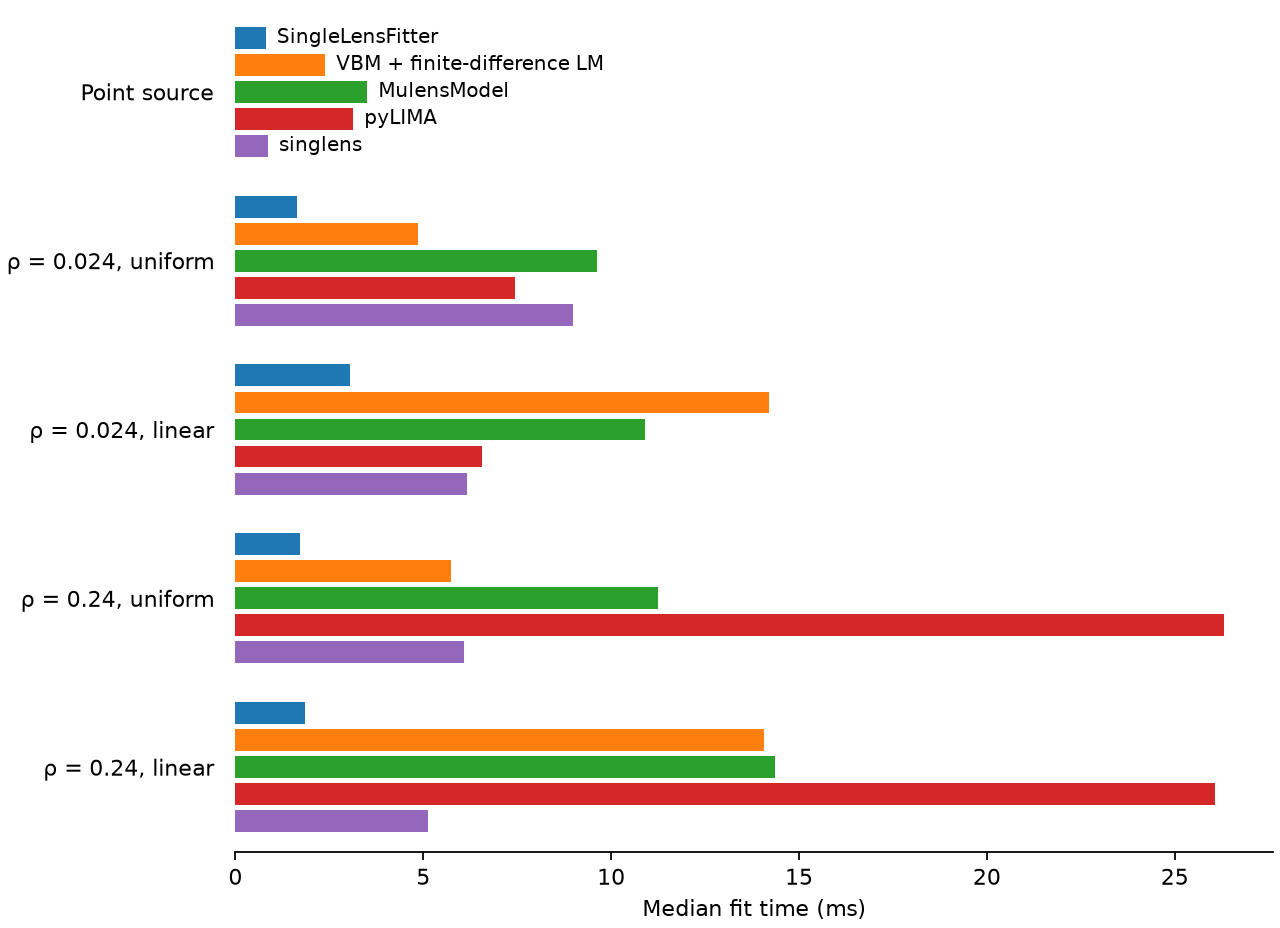
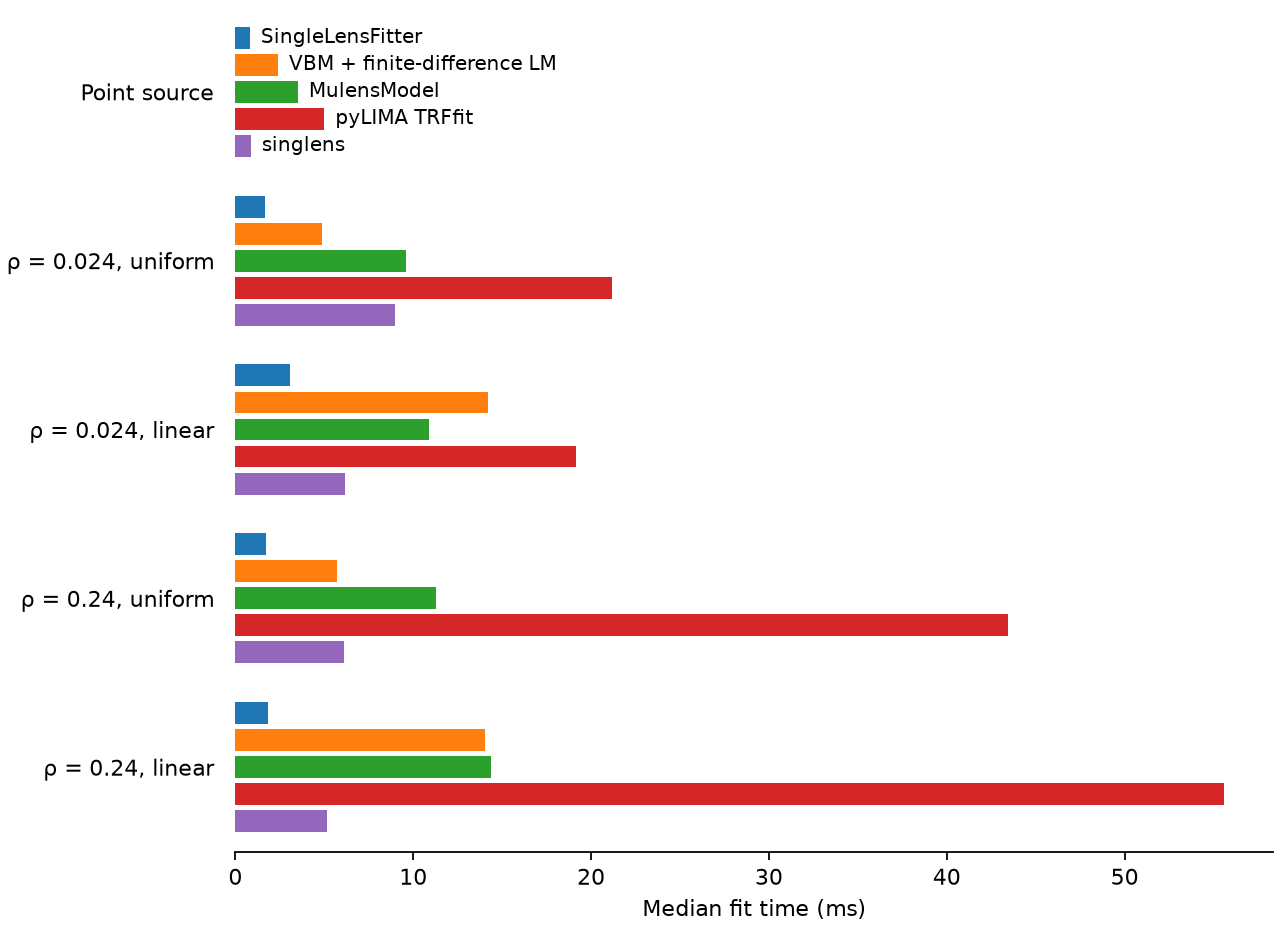
Benchmark pyLIMA with its native TRF fitter

diff --git a/benchmarks/methods.py b/benchmarks/methods.py
@@ -75,7 +75,7 @@ def photometry(radius, a):
     return time, flux, err, start
 
 
-def run(radius, a, lee_only=False, vbm_only=False, matched=False):
+def run(radius, a, lee_only=False, vbm_only=False, matched=False, workflows=False):
     finite = radius > 0
     time, flux, err, start = photometry(radius, a)
     seed = start.copy()
@@ -85,7 +85,7 @@ def run(radius, a, lee_only=False, vbm_only=False, matched=False):
     fitter = FSPLFitter(linear_limb_darkening=a) if finite else PSPLFitter()
 
     def slf():
-        options = {"numpy_result": True} if matched else {}
+        options = {"numpy_result": True} if matched or workflows else {}
         r = fitter.fit(time, flux, err, seed, **options)
         if not r.optimizer_success:
             raise RuntimeError(r.optimizer_status)
@@ -93,9 +93,9 @@ def run(radius, a, lee_only=False, vbm_only=False, matched=False):
 
     methods = {"SLF": slf}
     for label, defaults in [("VBM batch + FD", False), ("VBM default + FD", True)]:
-        if defaults and not finite:
+        if defaults and (not finite or workflows):
             continue
-        curve = vbm_curve(time, finite, a, defaults=defaults, tolerance=1e-3 if matched else 1e-4)
+        curve = vbm_curve(time, finite, a, defaults=defaults, tolerance=1e-3 if matched or workflows else 1e-4)
         methods[label] = lambda curve=curve: fd_fit(curve, flux, err, seed, geometry=True)
 
     if vbm_only:
@@ -139,7 +139,19 @@ def run(radius, a, lee_only=False, vbm_only=False, matched=False):
             raise RuntimeError(result.message)
         return float(result.fun), result.x*units
 
-    if not matched:
+    if workflows:
+        def tutorial_fit():
+            def objective(q):
+                set_params(q)
+                return ev.get_chi2()
+
+            result = minimize(objective, start, method="Nelder-Mead")
+            if not result.success:
+                raise RuntimeError(result.message)
+            return float(result.fun), result.x
+
+        methods["MulensModel Event + Nelder-Mead"] = tutorial_fit
+    elif not matched:
         methods["MulensModel Event + gradient"] = mm_fit
 
     def mm_curve(q):
@@ -160,7 +172,8 @@ def run(radius, a, lee_only=False, vbm_only=False, matched=False):
                score_reference(time, flux, err, q, a), *q, "ok"]
         return
 
-    methods["MulensModel + FD"] = lambda: fd_fit(mm_curve, flux, err, seed, geometry=True)
+    if not workflows:
+        methods["MulensModel + FD"] = lambda: fd_fit(mm_curve, flux, err, seed, geometry=True)
     telescope = telescopes.Telescope(name="survey", lightcurve=np.column_stack((time, flux, err)),
         lightcurve_names=["time","flux","err_flux"], lightcurve_units=["JD","W/m^2","W/m^2"])
     for name, arr in zip(("time","flux","err_flux"), (time, flux, err)):
@@ -170,6 +183,8 @@ def run(radius, a, lee_only=False, vbm_only=False, matched=False):
     data.telescopes.append(telescope)
     choices = [("pyLIMA PSPL", PSPLmodel)] if not finite else [
         ("pyLIMA FSPL", FSPLmodel), ("pyLIMA FSPLarge", FSPLargemodel)]
+    if workflows and finite:
+        choices = [choices[int(radius > .05)]]
     if matched:
         # Control for the derivative implementation with the same FD driver.
         methods["SLF model + FD"] = lambda: fd_fit(
@@ -228,6 +243,7 @@ if __name__ == "__main__":
     import argparse
     parser = argparse.ArgumentParser(description=__doc__)
     modes = parser.add_mutually_exclusive_group()
+    modes.add_argument("--workflows", action="store_true", help="package fitting workflows")
     modes.add_argument("--matched", action="store_true", help="common LM seed, scaling and stopping rules")
     modes.add_argument("--lee09", action="store_true", help="single large-source integration fits")
     modes.add_argument("--vbm-sweep", action="store_true", help="intermediate 1e-3 VBM tolerance")
@@ -238,5 +254,5 @@ if __name__ == "__main__":
     for radius, a in cases:
         if args.vbm_sweep and radius == 0:
             continue
-        writer.writerows(run(radius, a, lee, args.vbm_sweep, args.matched))
+        writer.writerows(run(radius, a, lee, args.vbm_sweep, args.matched, args.workflows))
         sys.stdout.flush()

diff --git a/benchmarks/singlens_fits.py b/benchmarks/singlens_fits.py
@@ -12,7 +12,7 @@ import singlens
 from methods import photometry, score_reference
 
 
-def run(rho, a):
+def run(rho, a, workflows=False):
     time, flux, error, seed = photometry(rho, a)
     model = singlens.Model(source=("linear" if a else "uniform") if rho else "point")
     times, values, errors = map(jnp.asarray, (time - seed[0], flux, error))
@@ -37,10 +37,16 @@ def run(rho, a):
     fun(start).block_until_ready()
     jac(start).block_until_ready()
     warmup_ms = 1000 * (perf_counter() - tic)
+    options = dict(method="lm", x_scale=1., ftol=1e-6, xtol=1e-6, gtol=1e-6, max_nfev=1000)
+    if workflows:
+        lower, upper = np.full(start.size, -np.inf), np.full(start.size, np.inf)
+        if rho:
+            lower[3], upper[3] = np.log([1e-6, 10.])
+        options = dict(method="trf", bounds=(lower, upper), x_scale="jac",
+                       ftol=1e-10, xtol=1e-10, gtol=1e-8, max_nfev=400)
     for repeat in range(10):
         tic = perf_counter()
-        result = least_squares(fun, start, jac=jac, method="lm", x_scale=1.,
-                               ftol=1e-6, xtol=1e-6, gtol=1e-6, max_nfev=1000)
+        result = least_squares(fun, start, jac=jac, **options)
         ms = 1000 * (perf_counter() - tic)
         if not repeat:
             continue
@@ -49,16 +55,21 @@ def run(rho, a):
         q[1] = np.exp(q[1])
         if rho:
             q[3] = np.exp(q[3])
-        yield [rho, a, "singlens autodiff", repeat, ms, result.fun @ result.fun,
+        yield [rho, a, "singlens TRF" if workflows else "singlens autodiff", repeat, ms, result.fun @ result.fun,
                score_reference(time, flux, error, q, a), *q[:3], q[3] if rho else "",
                "ok" if result.success else result.message, result.status, result.nfev, warmup_ms]
 
 
 if __name__ == "__main__":
+    import argparse
+
+    parser = argparse.ArgumentParser(description=__doc__)
+    parser.add_argument("--workflows", action="store_true")
+    args = parser.parse_args()
     jax.config.update("jax_enable_x64", True)
     writer = csv.writer(sys.stdout, lineterminator="\n")
     writer.writerow(["rho_true", "a", "method", "repeat", "ms", "chi2", "reference_chi2",
                      "t0", "tE", "u0", "rho_fit", "status", "lm_status", "nfev", "warmup_ms"])
     for rho, a in [(0, 0), (.024, 0), (.024, .5), (.24, 0), (.24, .5)]:
-        writer.writerows(run(rho, a))
+        writer.writerows(run(rho, a, args.workflows))
         sys.stdout.flush()

diff --git a/benchmarks/plot_fit_times.py b/benchmarks/plot_fit_times.py
@@ -20,20 +20,22 @@ CASES = [
 
 def main():
     samples = defaultdict(list)
-    with (ROOT / "matched_fits.csv").open() as stream, (ROOT / "singlens_fits.csv").open() as extra:
-        for row in chain(csv.DictReader(stream), csv.DictReader(extra)):
-            if row["status"] == "ok":
+    with (ROOT / "matched_fits.csv").open() as stream, (ROOT / "singlens_fits.csv").open() as extra, (ROOT / "package_workflows.csv").open() as workflows:
+        for row in chain(csv.DictReader(stream), csv.DictReader(extra), (row for row in csv.DictReader(workflows) if row["method"].startswith("pyLIMA"))):
+            if row["status"] == "ok" and (
+                not row["method"].startswith("pyLIMA") or not row["method"].endswith(" + FD")
+            ):
                 key = float(row["rho_true"]), float(row["a"]), row["method"]
                 samples[key].append(float(row["ms"]))
 
     fig, ax = plt.subplots(figsize=(8, 5.8), layout="constrained")
     positions = np.arange(len(CASES))
-    labels = ["SingleLensFitter", "VBM + finite-difference LM", "MulensModel", "pyLIMA", "singlens"]
+    labels = ["SingleLensFitter", "VBM + finite-difference LM", "MulensModel", "pyLIMA TRFfit", "singlens"]
     for index, label in enumerate(labels):
         times = []
         for rho, a, _, pylima_model in CASES:
             method = ["SLF", "VBM batch + FD", "MulensModel + FD",
-                      f"pyLIMA {pylima_model} + FD", "singlens autodiff"][index]
+                      f"pyLIMA {pylima_model}", "singlens autodiff"][index]
             values = samples[rho, a, method]
             if len(values) != 9:
                 raise ValueError(f"Expected nine timings for {rho}, {a}, {method}")

diff --git a/benchmarks/comparison.md b/benchmarks/comparison.md
@@ -3,7 +3,8 @@
 ## Matched seeded fits
 
 Each package fits the same 1,000 synthetic observations from the same initial
-geometry using SciPy LM (`ftol = xtol = gtol = 1e-6`). Bars show the median
+geometry. pyLIMA uses its native TRF fitter. The other four use SciPy LM
+(`ftol = xtol = gtol = 1e-6`). Bars show the median
 of nine warmed fits on one Xeon Gold 6530 core. Shorter bars mean faster fits.
 
 ![Median fit time in milliseconds for five packages across five source profiles](figures/matched-fit-times.png)
@@ -13,16 +14,16 @@ The reference score uses independent magnification calculations at each
 package’s fitted geometry and a new weighted fit of source and blend flux.
 Lower χ² means closer agreement with the observations within that row.
 
-| Source | SLF (development) | VBM + finite-difference LM | MulensModel | pyLIMA | singlens |
+| Source | SLF (development) | VBM + finite-difference LM | MulensModel | pyLIMA TRFfit | singlens |
 |---|---:|---:|---:|---:|---:|
-| Point source | 0.81 ms (χ² = 958.90) | 2.39 ms (χ² = 958.90) | 3.51 ms (χ² = 958.90) | 3.13 ms (χ² = 958.90) | 0.86 ms (χ² = 958.90) |
-| ρ = 0.024, uniform | 1.64 ms (χ² = 961.20) | 4.85 ms (χ² = 979.00) | 9.61 ms (χ² = 961.83) | 7.45 ms (χ² = 961.83) | 8.99 ms (χ² = 961.18) |
-| ρ = 0.024, linear | 3.04 ms (χ² = 961.05) | 14.19 ms (χ² = 1069.18) | 10.91 ms (χ² = 961.58) | 6.57 ms (χ² = 961.58) | 6.17 ms (χ² = 961.04) |
-| ρ = 0.24, uniform | 1.73 ms (χ² = 959.98) | 5.74 ms (χ² = 960.17) | 11.25 ms (χ² = 1022.81) | 26.31 ms (χ² = 960.17) | 6.09 ms (χ² = 959.98) |
-| ρ = 0.24, linear | 1.85 ms (χ² = 959.89) | 14.06 ms (χ² = 960.95) | 14.37 ms (χ² = 1012.65) | 26.07 ms (χ² = 960.95) | 5.13 ms (χ² = 959.89) |
+| Point source | 0.81 ms (χ² = 958.90) | 2.39 ms (χ² = 958.90) | 3.51 ms (χ² = 958.90) | 5.00 ms (χ² = 958.90) | 0.86 ms (χ² = 958.90) |
+| ρ = 0.024, uniform | 1.64 ms (χ² = 961.20) | 4.85 ms (χ² = 979.00) | 9.61 ms (χ² = 961.83) | 21.17 ms (χ² = 961.83) | 8.99 ms (χ² = 961.18) |
+| ρ = 0.024, linear | 3.04 ms (χ² = 961.05) | 14.19 ms (χ² = 1069.18) | 10.91 ms (χ² = 961.58) | 19.15 ms (χ² = 961.58) | 6.17 ms (χ² = 961.04) |
+| ρ = 0.24, uniform | 1.73 ms (χ² = 959.98) | 5.74 ms (χ² = 960.17) | 11.25 ms (χ² = 1022.81) | 43.46 ms (χ² = 960.17) | 6.09 ms (χ² = 959.98) |
+| ρ = 0.24, linear | 1.85 ms (χ² = 959.89) | 14.06 ms (χ² = 960.95) | 14.37 ms (χ² = 1012.65) | 55.58 ms (χ² = 960.95) | 5.13 ms (χ² = 959.89) |
 
-SLF uses analytical derivatives and singlens uses JAX autodiff. The other three series use a shared
-two-point finite-difference driver. The MulensModel series uses a small-source
+SLF uses analytical derivatives and singlens uses JAX autodiff. VBM and MulensModel use a shared
+two-point finite-difference LM driver. The MulensModel series uses a small-source
 approximation for both radii; its reference χ² increases at ρ = 0.24.
 
 <details>
@@ -33,7 +34,7 @@ approximation for both radii; its reference χ² increases at ρ = 0.24.
 | **[SingleLensFitter](https://github.com/NunotaKansuke/SingleLensFitter)** | `PSPLFitter.fit(time, flux, err, p0, numpy_result=True)` or `FSPLFitter.fit(..., numpy_result=True)` | Supplied seed, built-in analytical Jacobian, NumPy output. For FSPL, `linear_limb_darkening=0` or `0.5`. |
 | **[VBMicrolensing 5.7](https://github.com/valboz/VBMicrolensing)** | `VBMicrolensing.PSPLLightCurve` or `ESPLLightCurve` with the full epoch list | ESPL table loaded once before timing. `Tol = RelTol = 1e-3`, `a1 = 0` or `0.5` and `minannuli = 1` (uniform) or `2` (linear). Fit with the benchmark’s finite-difference LM driver. |
 | **[MulensModel 3.12.0](https://github.com/rpoleski/MulensModel)** | `Model.get_magnification(time, gamma=...)` | Standard point-lens mode, `finite_source_uniform_Gould94` or `finite_source_LD_Yoo04`. The benchmark sets `gamma = 2a/(3 − a)` and uses its finite-difference LM driver. |
-| **[pyLIMA 1.9.8](https://github.com/ebachelet/pyLIMA)** | `model.model_magnification(telescope, parameters)` | `PSPLmodel` for point sources, `FSPLmodel` at ρ = 0.024 and `FSPLargemodel` at ρ = 0.24. Telescope options are `ld_a1 = a` and `ld_gamma = 2a/(3 − a)`. Fit with the benchmark’s finite-difference LM driver. |
+| **[pyLIMA 1.9.8](https://github.com/ebachelet/pyLIMA)** | `TRFfit.fit()` with `model_parameters_guess` | `PSPLmodel` for point sources, `FSPLmodel` at ρ = 0.024 and `FSPLargemodel` at ρ = 0.24. Telescope options are `ld_a1 = a` and `ld_gamma = 2a/(3 − a)`. The native fitter initializes and fits fluxes, uses its own stopping rules, and computes covariance. The FSPLarge radius upper bound is 1. |
 | **[singlens](https://github.com/ShotaMiyazaki94/singlens)** (`23bcf7a`) | `Model(source=...).magnification(times, Parameters(...))` | `source="point"`, `"uniform"` or `"linear"`. Finite sources use the bundled table through the default solver. The benchmark uses `jax.jit` and `jax.jacfwd` with CPU float64 and passes the Jacobian to SciPy LM. Initial compilation is recorded separately. |
 
 [Shared LM driver](fits.py) · [Package calls and options](methods.py) · [singlens calls and options](singlens_fits.py)
@@ -41,6 +42,41 @@ approximation for both radii; its reference χ² increases at ρ = 0.24.
 </details>
 
 [All 297 measurements, including the SLF finite-difference control](matched_fits.csv) · [45 singlens fits and JIT warmup times](singlens_fits.csv)
+
+## Fits using package APIs
+
+The workflows below start from the same geometry and use the same photometry
+as the matched LM comparison. Each optimizer uses its own stopping rules.
+The times are medians of nine warmed fits. Reference χ² is evaluated with the
+same independent model used above.
+
+| Source | SLF | VBM + finite-difference LM | MulensModel + Nelder–Mead | pyLIMA TRFfit | singlens + TRF |
+|---|---:|---:|---:|---:|---:|
+| Point source | 0.87 ms (χ² = 958.90) | 2.40 ms (χ² = 958.90) | 30.58 ms (χ² = 958.90) | 5.00 ms (χ² = 958.90) | 1.59 ms (χ² = 958.90) |
+| ρ = 0.024, uniform | 1.66 ms (χ² = 961.20) | 5.13 ms (χ² = 979.00) | 192.34 ms (χ² = 961.83) | 21.17 ms (χ² = 961.83) | 8.31 ms (χ² = 961.18) |
+| ρ = 0.024, linear | 2.99 ms (χ² = 961.05) | 14.81 ms (χ² = 1069.18) | Evaluation limit reached | 19.15 ms (χ² = 961.58) | 8.35 ms (χ² = 961.04) |
+| ρ = 0.24, uniform | 1.74 ms (χ² = 959.98) | 5.92 ms (χ² = 960.17) | 58.84 ms (χ² = 1022.88) | 43.46 ms (χ² = 960.17) | 6.12 ms (χ² = 959.98) |
+| ρ = 0.24, linear | 2.02 ms (χ² = 959.89) | 14.91 ms (χ² = 960.95) | 95.35 ms (χ² = 1012.57) | 55.58 ms (χ² = 960.95) | 6.86 ms (χ² = 959.89) |
+
+<details>
+<summary>Show the fitting calls and options</summary>
+
+| Package | Fitting workflow |
+|---|---|
+| SingleLensFitter | `PSPLFitter.fit` or `FSPLFitter.fit` with a supplied seed and `numpy_result=True`. |
+| VBMicrolensing | Batch `PSPLLightCurve` or `ESPLLightCurve` with the same two-point SciPy LM driver and `Tol = RelTol = 1e-3` for finite sources. |
+| MulensModel | Update `Model.parameters`, then call `Event.get_chi2()` from SciPy `minimize(method="Nelder-Mead")`, following the [basic fitting tutorial](https://rpoleski.github.io/MulensModel/tutorial_fit_pspl.html). Finite-source modes are Gould94/Yoo04 at both radii. |
+| pyLIMA | Supply the geometry to `TRFfit.model_parameters_guess` and call `TRFfit.fit()`. pyLIMA initializes and fits the flux parameters, uses its standard stopping rules, and computes covariance. The models are PSPL, FSPL for the small source, and FSPLarge for the larger source. For FSPLarge the upper radius bound is 1 to admit the supplied seed. |
+| singlens | Use `Model.magnification` and the bundled finite-source table. Follow the profiled-residual stage of the official example with JIT-compiled residuals, `jax.jacfwd`, and SciPy TRF with Jacobian scaling. Use the shared seed and a weighted flux solve with the benchmark’s χ² objective. [Upstream example](https://github.com/ShotaMiyazaki94/singlens/blob/23bcf7a2a1643a225f32c4e1042ebe4f65d14e8e/example/compare-single-vbml/code/experiment.py) |
+
+```sh
+taskset -c 28 python benchmarks/methods.py --workflows
+PYTHONPATH=/path/to/singlens/src JAX_PLATFORMS=cpu taskset -c 28 python benchmarks/singlens_fits.py --workflows
+```
+
+[Package workflow measurements](package_workflows.csv) · [singlens measurements and JIT warmup](singlens_workflows.csv)
+
+</details>
 
 ### Benchmark light curves
 
@@ -92,7 +128,8 @@ the peak. The lower panels give (observed − fitted flux) / σ.
 ```sh
 python -m pip install .
 export OMP_NUM_THREADS=1 OPENBLAS_NUM_THREADS=1 MKL_NUM_THREADS=1
-taskset -c 28 python benchmarks/methods.py --matched > matched_fits.csv
+taskset -c 28 python benchmarks/methods.py --matched > benchmarks/matched_fits.csv
+taskset -c 28 python benchmarks/methods.py --workflows > benchmarks/package_workflows.csv
 PYTHONPATH=/path/to/singlens/src JAX_PLATFORMS=cpu taskset -c 28 python benchmarks/singlens_fits.py > benchmarks/singlens_fits.csv
 python benchmarks/plot_fit_times.py
 python benchmarks/plot_lightcurves.py

diff --git a/README.md b/README.md
@@ -46,7 +46,7 @@ for point-source fits, limb darkening, parallax, and derivatives.
 On one Xeon Gold 6530 core, the development version fit synthetic light curves
 with 1,000 observations in 0.81 ms (point source) and
 1.64–3.04 ms (finite source) with NumPy output, starting from supplied parameters. The comparison uses identical
-photometry, initial geometry and optimizer stopping rules across packages.
+photometry and initial geometry across packages.
 
 [Benchmark results and light curves](benchmarks/comparison.md#matched-seeded-fits)
 · [Automatic fits and other benchmarks](benchmarks/README.md)
